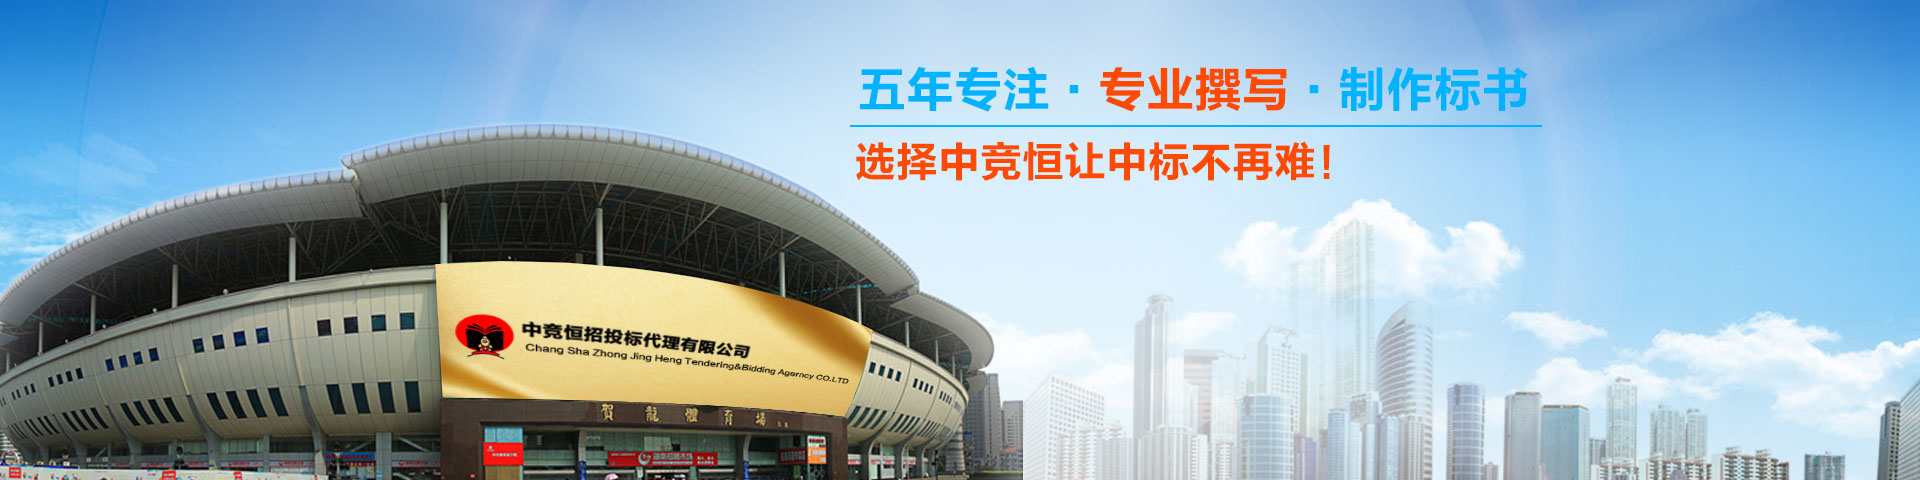
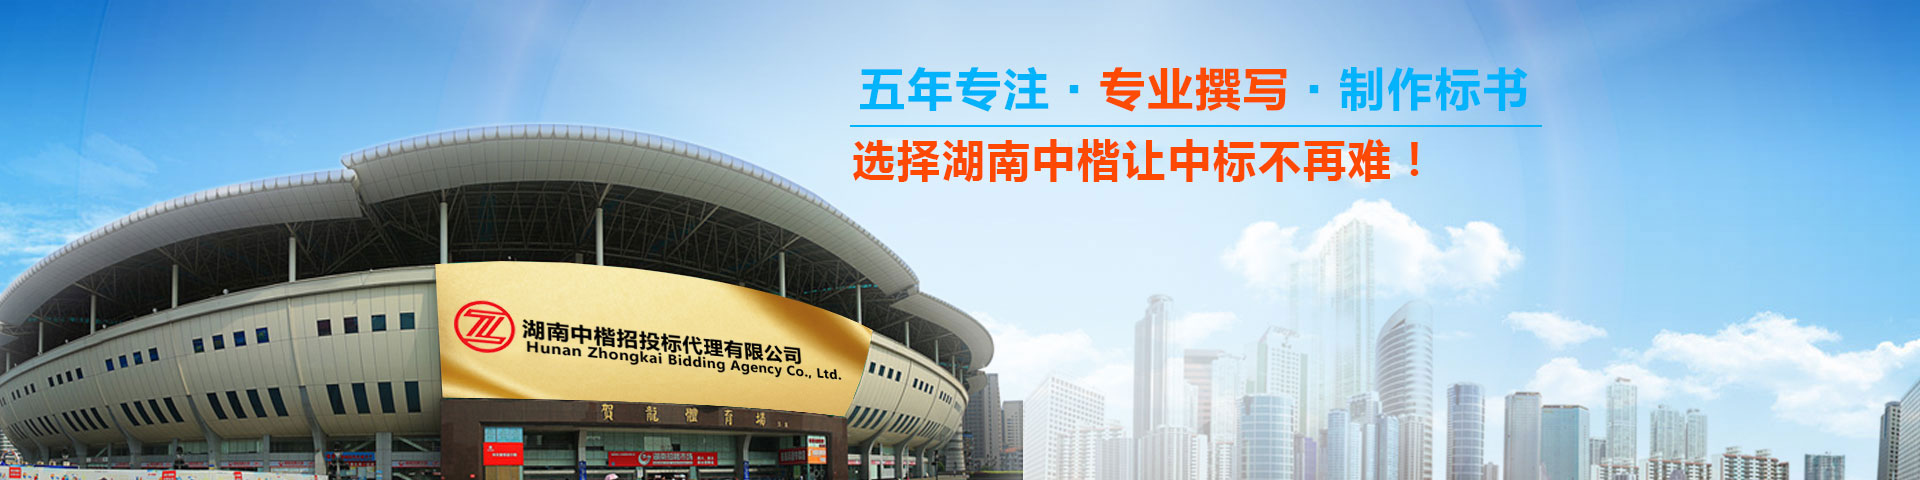
1

Changed region(s): [[0.4375, 0.2812, 0.75, 0.375], [0.2188, 0.625, 0.4375, 0.8125]]

diff --git a/src/main/webapp/index.html b/src/main/webapp/index.html
@@ -145,23 +145,21 @@ var _hmt = _hmt || [];
 <!--幻灯片-->
 <div id="banner" class="banner"> 
     <div id="owl-demo" class="owl-carousel"> 
+    <a class="item" target="_blank" href="" >
+            <img src="Assets/upload/1213.jpg" alt="">
+        </a>
+     	<a class="item" target="_blank" href="" >
+            <img src="Assets/upload/new5.jpg" alt="">
+        </a>
     	<a class="item" target="_blank" href="" >
             <img src="Assets/upload/banner2.jpg" alt="">
         </a>
-     	<a class="item" target="_blank" href="" >
-            <img src="Assets/upload/1213.png" alt="">
-        </a>
-        <a class="item" target="_blank" href="" >
-            <img src="Assets/upload/b3.jpg" alt="">
-        </a>
-        
         <a class="item" target="_blank" href="">
              <img src="Assets/upload/b4.jpg" alt=""> 
         </a> 
         <a class="item" target="_blank" href="" >
-            <img src="Assets/upload/new5.jpg" alt="">
+            <img src="Assets/upload/b3.jpg" alt="">
         </a>
-        
     </div>
 </div>
 <!--幻灯片-->
@@ -288,7 +286,7 @@ var _hmt = _hmt || [];
                 <a href="about.html" class="more">+MORE</a>
             </div>
             <dl class="i_mc clearfix">
-            	<dt><a href="about.html"><img src="Assets/upload/pic5.png" alt=""/></a></dt>
+            	<dt><a href="about.html"><img src="Assets/upload/pic5.jpg" alt=""/></a></dt>
                 <dd style="color: black;">
                 	<p style="text-indent:2em;font-size: 14px;">湖南中楷众拓项目管理咨询有限公司，前身为”中意标书工作室”，成立于2014年3月,是一家专注工程类，采购类和服务类三大类工程项目的配套服务公司。</p>
 	                <p style="text-indent:2em;font-size: 14px;">涉及业务： 1.招投标文件的编制；2.项目预（结）算；3.招标代理，可研，监理；4.项目开竣工资料；5.招投标公务代办</p>

diff --git a/src/main/webapp/zbdl.html b/src/main/webapp/zbdl.html
@@ -98,7 +98,7 @@ var _hmt = _hmt || [];
 <div class="scd clearfix">
 	<div class="scd_l">
     	<div class="s_name">
-        	<img src="Assets/images/t3.png" width="134" height="48" alt=""/>
+        	<img src="Assets/images/zbdl.png" width="134" height="48" alt=""/>
             <i>&nbsp;</i>
         </div>
         <ul class="s_nav">

diff --git a/src/main/webapp/zbdl2.html b/src/main/webapp/zbdl2.html
@@ -98,7 +98,7 @@ var _hmt = _hmt || [];
 <div class="scd clearfix">
 	<div class="scd_l">
     	<div class="s_name">
-        	<img src="Assets/images/t3.png" width="134" height="48" alt=""/>
+        	<img src="Assets/images/zbdl.png" width="134" height="48" alt=""/>
             <i>&nbsp;</i>
         </div>
         <ul class="s_nav">
